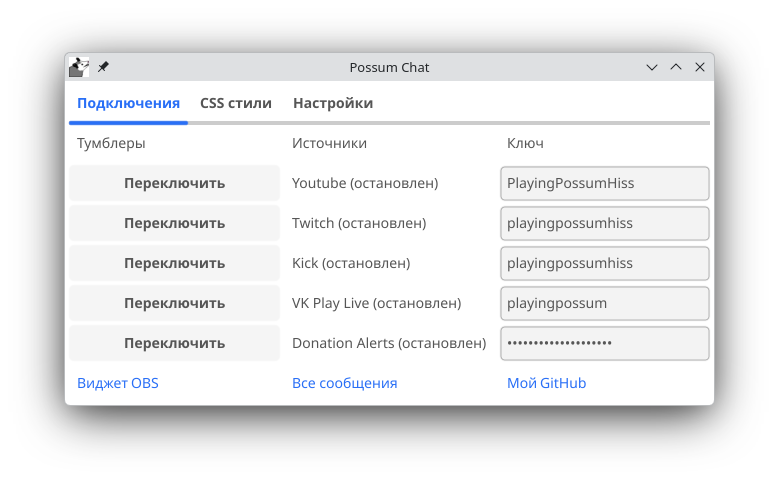
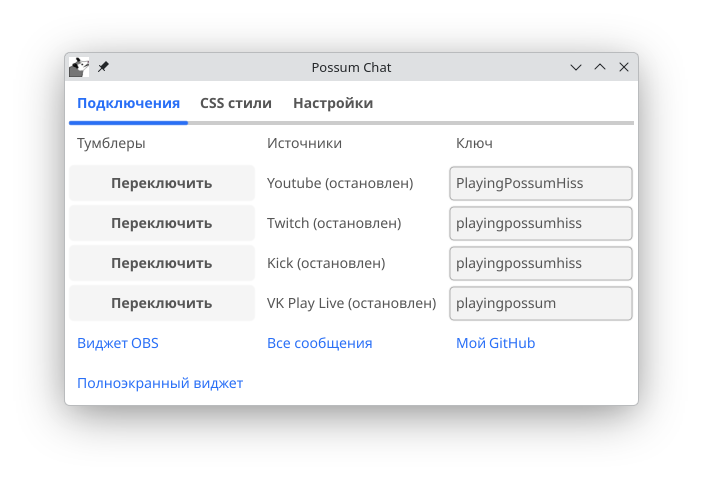
[90] актуализировал доку, после стрима сделаю релизом

diff --git a/internal/service/settings/datastruct.go b/internal/service/settings/datastruct.go
@@ -12,7 +12,7 @@ const (
 
 var currentVersion = "1.3"
 
-const appVerssion = "5c6eade"
+const appVerssion = "v1.2.5"
 
 type config struct {
 	Connections configConnections `json:"connections"`

diff --git a/README.md b/README.md
@@ -9,11 +9,15 @@
 Первая - окно соединений. Мы можем указать для каждого из источников ключ, а именно:
 - Для ютуба имя канала (без @) или ключ трансляции (из адресной строки)
 - Для VK Play Live, Kick или Twitch - имя канала (без @)
-- Для Donation Alerts - токен из адресной строки виджета для OBS
+- Для Donation Alerts - ~~токен из адресной строки виджета для OBS~~ Пока не работает, поменялся контракт
 
 Для каждого из соединений имеется кнопка для запуска вычитки сообщений
 
 Так же внизу есть ссылки на виджет OBS, страницу для просмотра всех сообщений и ссылка на этот репозиторий
+
+Обращаю внимание, что для OBS есть две отдельные страницы: с чатом и с виджетом на весь экран:
+- Чат выводит собственно весь чат и онлайн
+- Полноэкранный работает с командами (см. [Команды чата](#Команды_чата))
 
 ![Стили](./docs/css.png)
 
@@ -31,12 +35,20 @@
 - Порт на котором будет запушен виджет. Требует перезапуск
 - Язык (английский или русский). Требует перезапуск
 - Версия
+- Текущая версия на Github, а так же возможность обновить ее по нажатию кнопки (отображается, если текущая версия отличается от актуальной)
 
 ## Виджет
 
 http://127.0.0.1:8081/messages.html - виджет для OBS будет тут после запуска
 http://127.0.0.1:8081/messages.html?for_last=1h - если хотим отображать все комментарии за последний час
 http://127.0.0.1:8081/messages.html?for_last=1h&use_scroll=true - если в дополнение к этому хотим, чтобы список можно было скролить (удобно для просмотра на втором экране). Так же можно увидеть ошибки, если они были в логах
+http://127.0.0.1:8081/widget.html - полноэкранный виджет для вывода того, что надо показывать исходя из всего расмера экрана
+
+## Команды чата
+
+Есть поддержка команд в чате:
+- Если вы введете в любом подключеннном чате `--vote one;two;tree`, то будет запущено голосование с этими вариантами. После этого варианты будут отображены наверху экрана, а если пользователи будут писать номер своего варианта, то голос будет засчитыаться. Закончить голосование можно командой `--vote` без параметров
+- Если вы введете в любом подключеннном чате `--message some text`, то этот текст будет выведен в нижнем правом углу виджета. Сбросить его можно командой `--message` без параметров
 
 ## Конфиг
 
